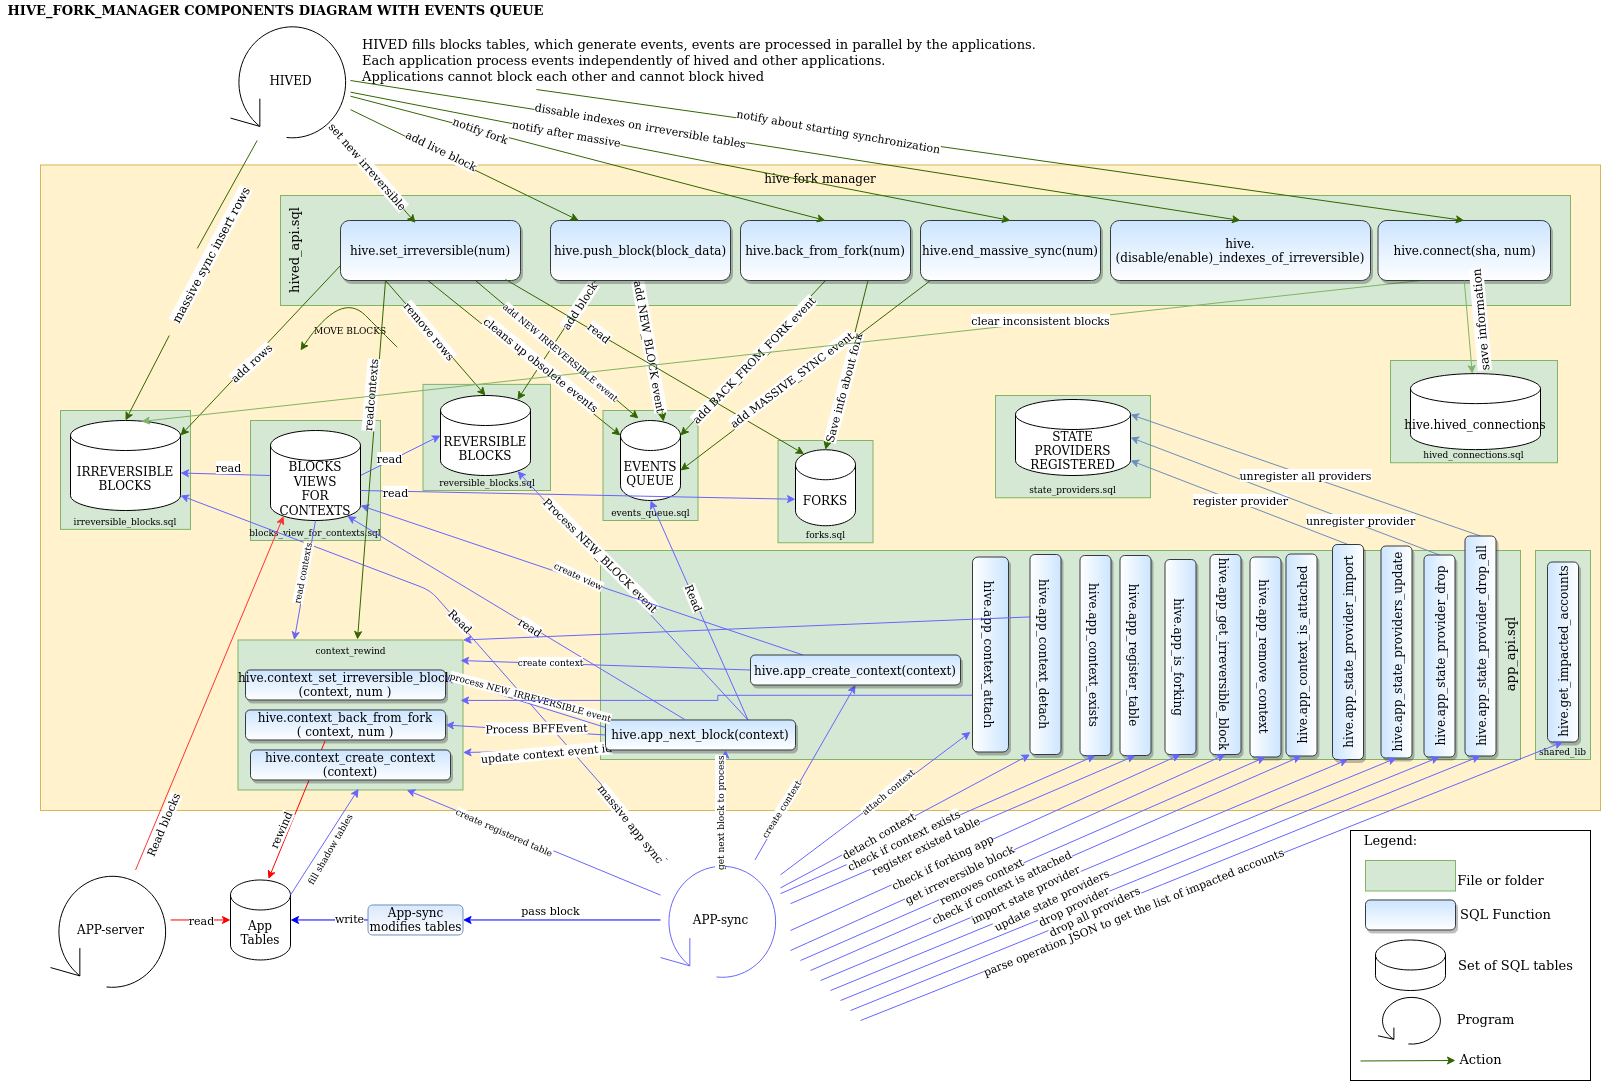
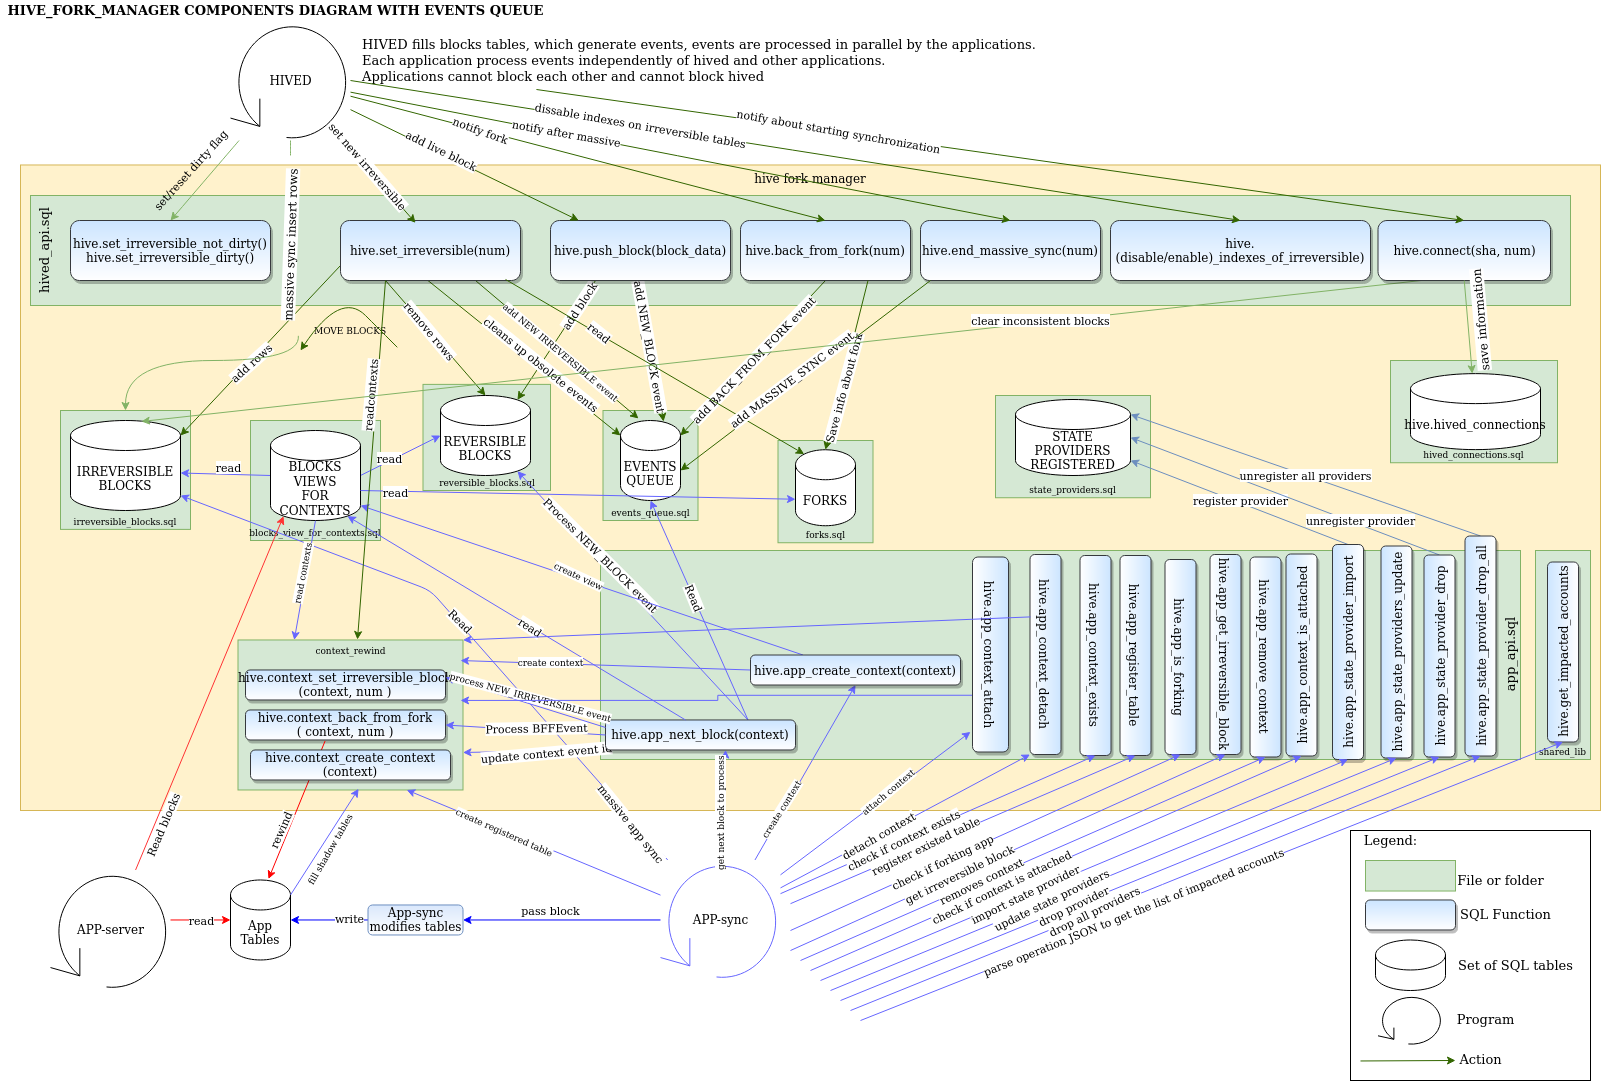
add dirty flag to make node to db reconnection faster
The table hive.irreversible_data was extended to column dirty (boolean).
When dirty is TRUE it means that irreversible data are in inconsistent state.
When the HAF will crash during sync (replay or p2p sync) then data are
inconsistant: some dumping data thread finish their jobs and some do not.
When node after crash will start, then it checks the dirty flag, if flag
is set, then inconsistent data have to be removed but it may last very long
time, because during replay there are no indexes to make inserting new rows faster.
During restarting the HAF after the crash an error is returned with informations about datat inconistency.
To succesfuly restart the node the switch `--psql-force-open-inconsistent` must be used.

Changed region(s): [[0.0, 0.1221, 0.1874, 0.7632], [0.4685, 0.1526, 0.5309, 0.1832]]

diff --git a/src/sql_serializer/sql_serializer.cpp b/src/sql_serializer/sql_serializer.cpp
@@ -44,6 +44,61 @@ using chain::reindex_notification;
   {
     namespace sql_serializer
     {
+    bool is_database_correct( const std::string& database_url, bool force_open_inconsistant ) {
+      ilog( "Checking correctness of database..." );
+
+      bool is_extension_created = false;
+      bool is_irreversible_dirty = false;
+      queries_commit_data_processor db_checker(
+        database_url
+        , "Check correctness"
+        , [&is_extension_created](const data_processor::data_chunk_ptr&, transaction_controllers::transaction& tx) -> data_processor::data_processing_status {
+          pqxx::result data = tx.exec("select 1 as _result from pg_extension where extname='hive_fork_manager';");
+          is_extension_created = !data.empty();
+          return data_processor::data_processing_status();
+          }
+          , nullptr
+          );
+
+      db_checker.trigger(data_processor::data_chunk_ptr(), 0);
+      db_checker.join();
+
+      if ( !is_extension_created ) {
+        elog( "The exstenion 'hive_fork_manager' is not created" );
+        return false;
+      }
+
+      queries_commit_data_processor db_consistency_checker(
+        database_url
+        , "Check consistency of irreversible data"
+        , [&is_irreversible_dirty](const data_processor::data_chunk_ptr&, transaction_controllers::transaction& tx) -> data_processor::data_processing_status {
+          pqxx::result data = tx.exec("select hive.is_irreversible_dirty() as _result;");
+          FC_ASSERT( !data.empty(), "No response from database" );
+          FC_ASSERT( data.size() == 1, "Wrong data size" );
+          const auto& record = data[0];
+          is_irreversible_dirty = record[ "_result" ].as<bool>();
+          return data_processor::data_processing_status();
+          }
+          , nullptr
+          );
+
+      db_consistency_checker.trigger(data_processor::data_chunk_ptr(), 0);
+      db_consistency_checker.join();
+
+      if ( !is_irreversible_dirty ) {
+        return true;
+      }
+
+      wlog( "The irreversible data are in inconsistent state" );
+
+      if ( !force_open_inconsistant ) {
+        elog( "Cannot open database because irreversible data are inconsistent. Removing inconsistancy may last long time, please use 'psql-force-open-inconsistent' switch to force open." );
+        return false;
+      }
+
+      wlog( "Switch 'psql-force-open-inconsistent' was used, inconsistent database will be rapaired what may last long time" );
+      return true;
+    }
 
     inline std::string get_operation_name(const hive::protocol::operation& op)
     {
@@ -152,7 +207,6 @@ using chain::reindex_notification;
               psql_operations_threads_number( _psql_operations_threads_number ),
               psql_account_operations_threads_number( _psql_account_operations_threads_number )
           {
-            FC_ASSERT( is_database_correct(), "SQL database is in invalid state" );
             HIVE_ADD_PLUGIN_INDEX(chain_db, account_ops_seq_index);
           }
 
@@ -338,27 +392,6 @@ using chain::reindex_notification;
             switch_db_items( false/*mode*/ );
           }
 
-          bool is_database_correct() {
-            ilog( "Checking correctness of database..." );
-
-            bool is_extension_created = false;
-            queries_commit_data_processor db_checker(
-                  db_url
-                , "Check correctness"
-                , [&is_extension_created](const data_chunk_ptr&, transaction_controllers::transaction& tx) -> data_processing_status {
-                    pqxx::result data = tx.exec("select 1 as _result from pg_extension where extname='hive_fork_manager';");
-                    is_extension_created = !data.empty();
-                    return data_processing_status();
-                }
-              , nullptr
-              );
-
-            db_checker.trigger(data_processor::data_chunk_ptr(), 0);
-            db_checker.join();
-
-            return is_extension_created;
-          }
-
           void inform_hfm_about_starting(hive::chain::database& _chaindb) {
             using namespace std::string_literals;
             ilog( "Inform Hive Fork Manager about starting..." );
@@ -387,7 +420,7 @@ using chain::reindex_notification;
                 pqxx::result data = tx.exec("SELECT hb.num AS _max_block FROM hive.blocks hb ORDER BY hb.num DESC LIMIT 1;");
                 if( !data.empty() )
                 {
-                  FC_ASSERT( data.size() == 1, "Data size 1" );
+                  FC_ASSERT( data.size() == 1, "Data size" );
                   const auto& record = data[0];
                   psql_block_number = record["_max_block"].as<uint64_t>();
                   _last_block_num = psql_block_number;
@@ -729,6 +762,7 @@ bool sql_serializer_plugin_impl::skip_reversible_block(uint32_t block_no)
                          ("psql-transactions-threads-number", appbase::bpo::value<uint32_t>()->default_value( 2 ), "number of threads which dump transactions to database during reindexing")
                          ("psql-account-operations-threads-number", appbase::bpo::value<uint32_t>()->default_value( 2 ), "number of threads which dump account operations to database during reindexing")
                          ("psql-enable-accounts-dump", appbase::bpo::value<bool>()->default_value( true ), "enable collect data to accounts and account_operations table")
+                         ("psql-force-open-inconsistent", appbase::bpo::bool_switch()->default_value( false ), "force open database even when irreversible data are inconsistent")
                          ;
       }
 
@@ -738,6 +772,10 @@ bool sql_serializer_plugin_impl::skip_reversible_block(uint32_t block_no)
         FC_ASSERT(options.count("psql-url"), "`psql-url` is required argument");
 
         auto& db = appbase::app().get_plugin<hive::plugins::chain::chain_plugin>().db();
+
+        FC_ASSERT( is_database_correct( options["psql-url"].as<fc::string>(), options["psql-force-open-inconsistent"].as<bool>() )
+                   , "SQL database is in invalid state"
+       );
 
         my = std::make_unique<detail::sql_serializer_plugin_impl>(
           options["psql-url"].as<fc::string>()

diff --git a/src/sql_serializer/reindex_data_dumper.cpp b/src/sql_serializer/reindex_data_dumper.cpp
@@ -10,6 +10,7 @@ namespace hive{ namespace plugins{ namespace sql_serializer {
     , uint32_t transactions_threads
     , uint32_t account_operation_threads ) {
     ilog( "Starting reindexing dump to database with ${o} operations and ${t} transactions threads", ("o", operations_threads )("t", transactions_threads) );
+    _transactions_controller = transaction_controllers::build_own_transaction_controller( db_url, "reindex dumper" );
     _end_massive_sync_processor = std::make_unique< end_massive_sync_processor >( db_url );
     constexpr auto ONE_THREAD_WRITERS_NUMBER = 3; // a thread for dumping blocks + a thread dumping multisignatures + a thread for accounts
     auto NUMBER_OF_PROCESSORS_THREADS = ONE_THREAD_WRITERS_NUMBER + operations_threads + transactions_threads + account_operation_threads;
@@ -19,6 +20,7 @@ namespace hive{ namespace plugins{ namespace sql_serializer {
       }
       _end_massive_sync_processor->trigger_block_number( _block_num );
     };
+
     auto api_trigger = std::make_shared< block_num_rendezvous_trigger >( NUMBER_OF_PROCESSORS_THREADS, execute_end_massive_sync_callback );
 
     _block_writer = std::make_unique<block_data_container_t_writer>(db_url, "Block data writer", api_trigger);
@@ -30,6 +32,8 @@ namespace hive{ namespace plugins{ namespace sql_serializer {
     _operation_writer = std::make_unique<operation_data_container_t_writer>( operations_threads, db_url, "Operation data writer", api_trigger);
     _account_writer = std::make_unique<accounts_data_container_t_writer>( db_url, "Accounts data writer", api_trigger);
     _account_operations_writer = std::make_unique< account_operations_data_container_t_writer >( account_operation_threads, db_url, "Account operations data writer", api_trigger);
+
+    mark_irreversible_data_as_dirty( true );
   }
 
   reindex_data_dumper::~reindex_data_dumper() {
@@ -57,6 +61,22 @@ namespace hive{ namespace plugins{ namespace sql_serializer {
       , *_account_operations_writer
       , *_end_massive_sync_processor
     );
+
+    mark_irreversible_data_as_dirty( false );
+  }
+
+  void reindex_data_dumper::mark_irreversible_data_as_dirty( bool is_dirty ) {
+    auto transaction = _transactions_controller->openTx();
+    std::string sql_command;
+    if ( is_dirty ) {
+      sql_command = "SELECT hive.set_irreversible_dirty();";
+    }
+    else {
+      sql_command = "SELECT hive.set_irreversible_not_dirty();";
+    }
+
+    transaction->exec( sql_command );
+    transaction->commit();
   }
 }}} // namespace hive::plugins::sql_serializer
 

diff --git a/src/sql_serializer/block_num_rendezvous_trigger.cpp b/src/sql_serializer/block_num_rendezvous_trigger.cpp
@@ -3,7 +3,10 @@
 #include "fc/exception/exception.hpp"
 
 namespace hive { namespace plugins { namespace sql_serializer {
-  block_num_rendezvous_trigger::block_num_rendezvous_trigger( uint32_t _number_of_threads, TRIGGERRED_FUNCTION _triggered_function )
+  block_num_rendezvous_trigger::block_num_rendezvous_trigger(
+      uint32_t _number_of_threads
+    , TRIGGERRED_FUNCTION _triggered_function
+  )
   : m_number_of_threads( _number_of_threads )
   , m_triggered_function( std::move( _triggered_function ) )
   {
@@ -16,7 +19,6 @@ namespace hive { namespace plugins { namespace sql_serializer {
       FC_THROW( "No trigger function" );
     }
   }
-
 
   void
   block_num_rendezvous_trigger::report_complete_thread_stage( BLOCK_NUM _stage_block_num ) {
@@ -34,6 +36,7 @@ namespace hive { namespace plugins { namespace sql_serializer {
     if ( ( stage_it->second + 1 ) == m_number_of_threads ) {
       m_completed_threads.erase( stage_it );
       m_triggered_function( _stage_block_num );
+
       ilog( "Dump whole block ${i}", ("i", _stage_block_num) );
       return;
     }

diff --git a/src/sql_serializer/include/hive/plugins/sql_serializer/reindex_data_dumper.h b/src/sql_serializer/include/hive/plugins/sql_serializer/reindex_data_dumper.h
@@ -32,6 +32,7 @@ namespace hive::plugins::sql_serializer {
     void trigger_data_flush( cached_data_t& cached_data, int last_block_num ) override;
   private:
     void join();
+    void mark_irreversible_data_as_dirty( bool is_dirty );
 
     using block_data_container_t_writer = table_data_writer<hive_blocks>;
     using transaction_data_container_t_writer = chunks_for_sql_writers_splitter<
@@ -71,6 +72,7 @@ namespace hive::plugins::sql_serializer {
     std::unique_ptr< account_operations_data_container_t_writer > _account_operations_writer;
 
     std::unique_ptr<end_massive_sync_processor> _end_massive_sync_processor;
+    std::shared_ptr< transaction_controllers::transaction_controller > _transactions_controller;
   };
 
 } // namespace hive::plugins::sql_serializer

diff --git a/src/sql_serializer/include/hive/plugins/sql_serializer/block_num_rendezvous_trigger.hpp b/src/sql_serializer/include/hive/plugins/sql_serializer/block_num_rendezvous_trigger.hpp
@@ -18,7 +18,9 @@ public:
   using NUMBER_OF_COMPLETED_THREADS = uint32_t;
   using TRIGGERRED_FUNCTION = std::function< void(BLOCK_NUM) >;
 
-  block_num_rendezvous_trigger( NUMBER_OF_COMPLETED_THREADS _number_of_threads, TRIGGERRED_FUNCTION _triggered_function );
+  block_num_rendezvous_trigger(
+    NUMBER_OF_COMPLETED_THREADS _number_of_threads,
+    TRIGGERRED_FUNCTION _triggered_function );
   block_num_rendezvous_trigger( block_num_rendezvous_trigger&& ) = delete;
   block_num_rendezvous_trigger( block_num_rendezvous_trigger& ) = delete;
   block_num_rendezvous_trigger& operator=( block_num_rendezvous_trigger& ) = delete;

diff --git a/src/sql_serializer/include/hive/plugins/sql_serializer/tables_descriptions.h b/src/sql_serializer/include/hive/plugins/sql_serializer/tables_descriptions.h
@@ -80,7 +80,6 @@ namespace hive::plugins::sql_serializer {
 
       std::string operator()(typename container_t::const_reference data) const
       {
-        // deserialization
         fc::variant opVariant;
         fc::to_variant(data.op, opVariant);
         fc::string deserialized_op = fc::json::to_string(opVariant);

diff --git a/src/hive_fork_manager/Readme.md b/src/hive_fork_manager/Readme.md
@@ -364,6 +364,15 @@ saves information about the connection occurence into table hived_connections.
 - **_git_sha** - is a GIT version of hived code
 - **_block_num** - head block number for which the hived is synchronized
 
+#### hive.set_irreversible_dirty()
+Sets 'dirty' flag, what marks irreversible data as inconistent 
+
+#### hive.set_irreversible_not_dirty()
+Unsets 'dirty' flag, what marks irreversible data as conistent
+
+#### hive.is_irreversible_dirty()
+Read the 'dirty' flag
+
 #### APP API
 The functions which should be used by an application
 

diff --git a/src/sql_serializer/README.md b/src/sql_serializer/README.md
@@ -16,6 +16,7 @@ psql-operations-threads-number = 5
 psql-transactions-threads-number = 2
 psql-account-operations-threads-number = 2
 psql-enable-accounts-dump = true
+psql-force-open-inconsistent = false
 ```
 
 ### Example command
